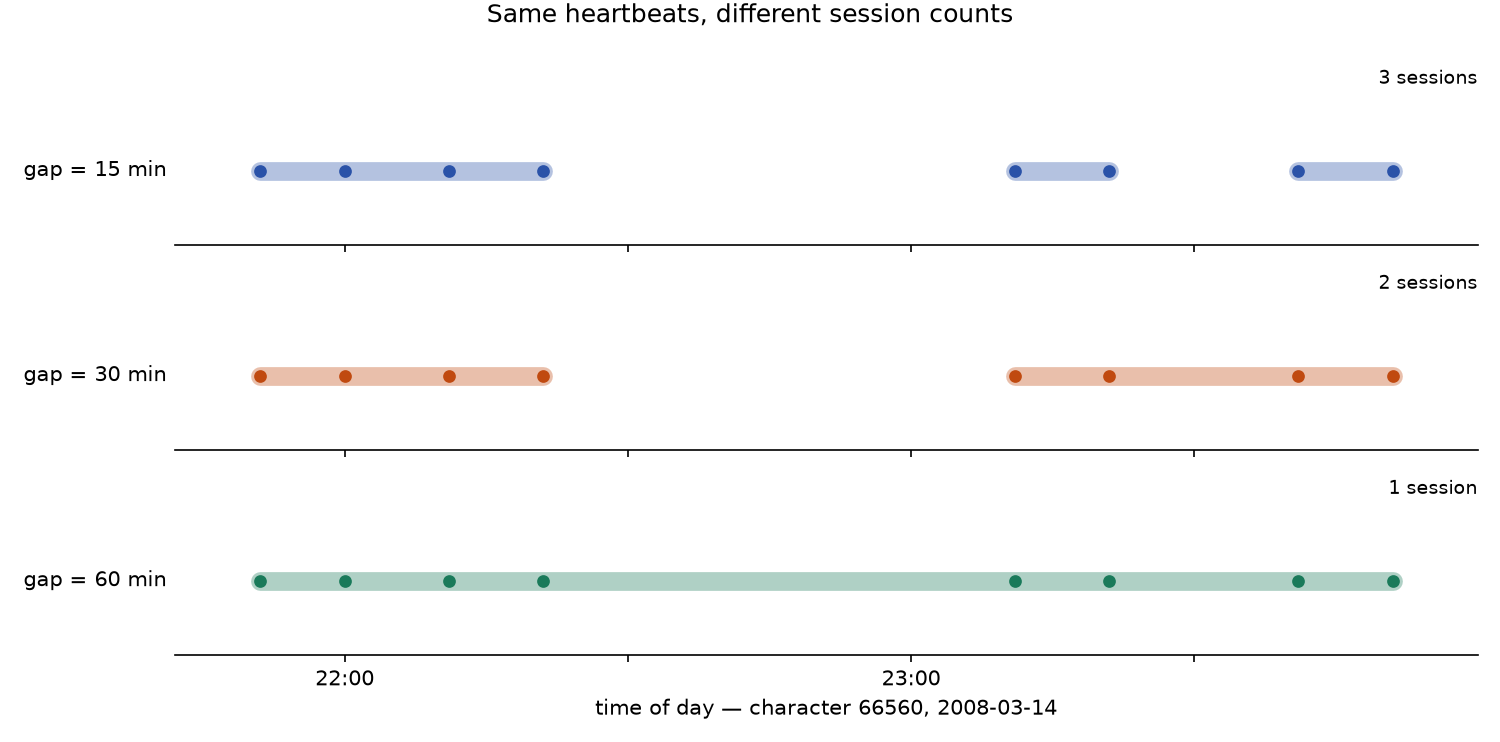
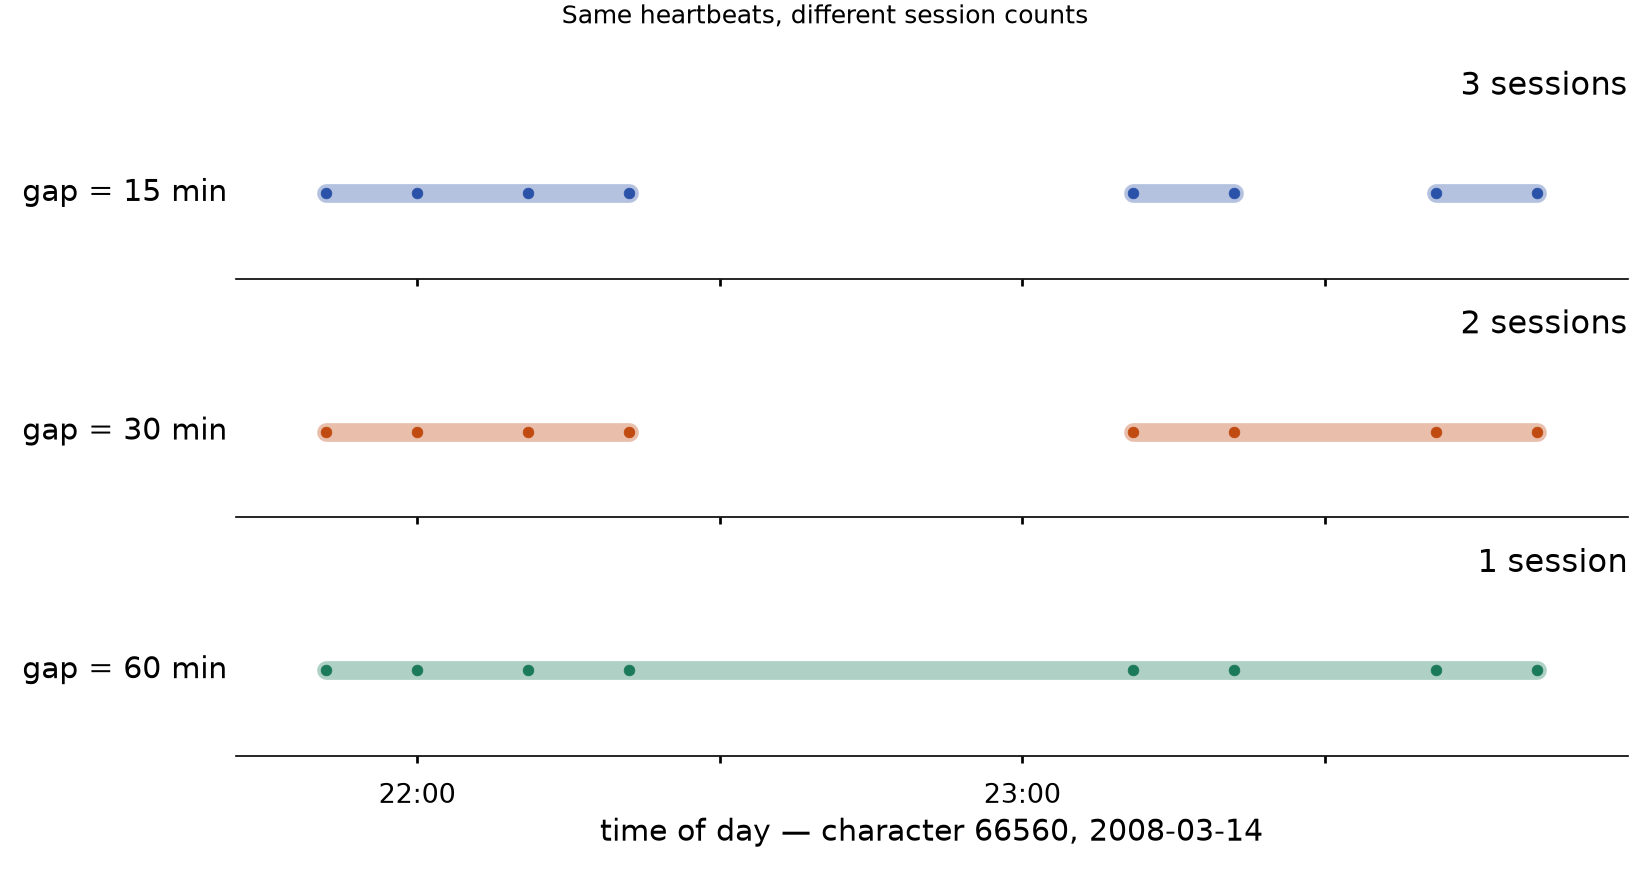
sampling and plots

diff --git a/plotting/plot_sampling.py b/plotting/plot_sampling.py
@@ -1,0 +1,123 @@
+"""
+Why `load` samples characters and not rows.
+
+A 10% sample of the *rows* of the 2008 heartbeat table, for 40 characters drawn
+at random from the 20,472 the sample kept. Grey cells are months in which the
+character genuinely did not play; orange cells are months the character did play
+but the row sample dropped.
+
+Writes images/sampling.png.
+"""
+# %%
+from pathlib import Path
+
+import matplotlib.pyplot as plt
+import numpy as np
+import polars as pl
+from matplotlib.colors import ListedColormap
+
+DATA_PATH = "data/wowah_data_2008.parquet"
+OUTPUT_PATH = Path("images/sampling.png")
+FRACTION = 0.1
+SEED = 42
+N_CHARS = 40
+
+PRESENT = "#2a52a8"
+SPURIOUS = "#c04a10"
+ABSENT = "#e6e6e6"
+
+
+# %%
+def load_beats(data_path=DATA_PATH):
+    df = pl.read_parquet(data_path, columns=["char", "timestamp"])
+    return df.with_columns(pl.col("timestamp").dt.truncate("1mo").alias("month"))
+
+
+def cells(df):
+    return df.select(["char", "month"]).unique()
+
+
+def sample_rows(df, fraction=FRACTION, seed=SEED):
+    return df.sample(fraction=fraction, seed=seed)
+
+
+# %%
+def grid(sample_cells, truth_cells, chars, months):
+    """0 = present, 1 = missing but truly present, 2 = truly missing."""
+    present = set(zip(sample_cells["char"].to_list(), sample_cells["month"].to_list()))
+    truth = set(zip(truth_cells["char"].to_list(), truth_cells["month"].to_list()))
+    out = np.zeros((len(chars), len(months)), dtype=int)
+    for i, char in enumerate(chars):
+        for j, month in enumerate(months):
+            if (char, month) in present:
+                out[i, j] = 0
+            elif (char, month) in truth:
+                out[i, j] = 1
+            else:
+                out[i, j] = 2
+    return out
+
+
+def draw(ax, mask, months, n_kept):
+    ax.imshow(
+        mask,
+        aspect="auto",
+        interpolation="nearest",
+        cmap=ListedColormap([PRESENT, SPURIOUS, ABSENT]),
+        vmin=0,
+        vmax=2,
+    )
+    ax.set_xticks(range(len(months)))
+    ax.set_xticklabels([m.strftime("%b") for m in months], fontsize=9)
+    ax.set_yticks([])
+    ax.set_title(
+        f"{mask.shape[0]} characters, a snippet of the {n_kept:,} the sample kept",
+        fontsize=10,
+        loc="left",
+    )
+    for side in ("top", "right", "left"):
+        ax.spines[side].set_visible(False)
+    ax.tick_params(length=0)
+
+
+# %%
+def plot(beats, output_path=OUTPUT_PATH):
+    truth = cells(beats)
+    row_sample = sample_rows(beats)
+    row_cells = cells(row_sample)
+
+    # A snippet of the characters the row sample kept, so the panel stays
+    # readable: the sample kept far more characters than can be drawn.
+    kept = row_cells["char"].unique().to_list()
+    shared = pl.Series(sorted(kept)).sample(n=N_CHARS, seed=SEED).to_list()
+    months = sorted(truth["month"].unique().to_list())
+
+    mask = grid(row_cells, truth, shared, months)
+
+    fig, ax = plt.subplots(figsize=(9.2, 4.6))
+    draw(ax, mask, months, len(kept))
+
+    handles = [
+        plt.Rectangle((0, 0), 1, 1, color=PRESENT),
+        plt.Rectangle((0, 0), 1, 1, color=SPURIOUS),
+        plt.Rectangle((0, 0), 1, 1, color=ABSENT),
+    ]
+    fig.legend(
+        handles,
+        ["played, kept by the sample", "played, dropped by the sample", "did not play"],
+        loc="lower center",
+        ncol=3,
+        frameon=False,
+        fontsize=9,
+        bbox_to_anchor=(0.5, -0.04),
+    )
+    fig.tight_layout()
+    output_path.parent.mkdir(parents=True, exist_ok=True)
+    fig.savefig(output_path, dpi=160, bbox_inches="tight")
+    print(f"wrote {output_path}")
+    return fig
+
+
+# %%
+if __name__ == "__main__":
+    plot(load_beats())

diff --git a/plotting/plot_session_gap_example.py b/plotting/plot_session_gap_example.py
@@ -14,6 +14,8 @@ import matplotlib.pyplot as plt
 import polars as pl
 from skrub import SessionEncoder
 
+plt.style.use("seaborn-v0_8-talk")
+
 DATA_PATH = "data/wowah_data_2008.parquet"
 OUTPUT_PATH = Path("images/session_gap_example.png")
 
@@ -41,7 +43,7 @@ def plot(night, output_path=OUTPUT_PATH, gaps=GAPS):
     hours = (night["timestamp"].dt.hour() + night["timestamp"].dt.minute() / 60).to_list()
 
     fig, axes = plt.subplots(
-        len(gaps), 1, figsize=(10, 1.35 * len(gaps) + 0.9), sharex=True
+        len(gaps), 1, figsize=(11, 1.5 * len(gaps) + 1.3), sharex=True
     )
     for ax, gap, color in zip(axes, gaps, COLORS):
         ids = session_ids(night, gap)
@@ -63,7 +65,6 @@ def plot(night, output_path=OUTPUT_PATH, gaps=GAPS):
         ax.set_title(
             f"{ids.n_unique()} session{'s' if ids.n_unique() > 1 else ''}",
             loc="right",
-            fontsize=9,
         )
         for side in ("top", "right", "left"):
             ax.spines[side].set_visible(False)

diff --git a/OUTLINE.md b/OUTLINE.md
@@ -9,8 +9,8 @@ exists in the code but is not yet in any part.
 ### 2. Downsampling by character  — *covered in Part 5*
 
 `load` samples a fraction of characters and keeps **all** their rows. The post
-mentions this in one sentence inside a collapsible block but never says why
-row-level sampling would be wrong.
+now has a subsection ("Why the sample is drawn by character") with the figure
+`images/sampling.png`; what follows is the material behind it.
 
 - Why sampling rows breaks the monthly timeline (a character would appear to have
   gaps that are sampling artefacts, not churn).
@@ -18,15 +18,30 @@ row-level sampling would be wrong.
 - The cost/accuracy trade-off: 10% of characters by default, `--fraction 1` for
   everything.
 
+Measured on `data/wowah_data_2008.parquet` (10.8M heartbeats, 37,354 characters,
+98,972 character-months), 10% sample, `seed=42`:
+
+| | rows | characters | character-months | lost |
+|---|---:|---:|---:|---:|
+| full | 10,826,734 | 37,354 | 98,972 | — |
+| by character | 1,115,791 | 3,735 | 9,959 | 0 |
+| by row | 1,082,673 | 20,472 | 59,690 | 24% of the played cells |
+
+- 13.9% of the row-sampled characters get an interior hole, 1.85 months wide on
+  average.
+- Label corruption: 5,519 of 16,701 positives in the row sample are spurious
+  (33%), 0 true positives lost — precision 0.67, recall 1.0 against the true
+  labels. The corruption only invents churners.
+- The parse happens before the sample, so both schemes cost the same to parse and
+  about the same to fit.
+
 Code: `sample_by_user` and `load`, in `src/utils.py` and `main.py`.
 
-::: {.callout-note}
-**Figure placeholder** — `images/TODO-sampling.png`
-
-Two side-by-side panels over the same month: (a) row-level sample, showing
-characters with spurious missing months; (b) character-level sample, showing
-complete timelines for fewer characters. Same number of rows in both.
-:::
+Figure: `images/sampling.png`, drawn by `plotting/plot_sampling.py`
+(`pixi run plot-sampling`). One panel: a 10% row sample over 2008 for 40
+characters drawn at random from the 20,472 the sample kept (a snippet — the
+sample kept far more than can be drawn). Blue = kept, orange = played but
+dropped, grey = did not play.
 
 ### 3. What a "session" is  — *covered in Part 3*
 

diff --git a/readme.md b/readme.md
@@ -40,7 +40,7 @@ Let `M` be the month in which we score a character (and could act on it).
 | `src/utils.py` | `sample_by_user` (sample whole character histories) and `get_session_duration` |
 | `src/parse_to_single_table.py`, `src/convert_to_parquet.py` | Parse the raw WoWAH `.txt` logs to CSV, then to parquet |
 | `location_features.py`, `lagged_features.py`, `main-unpacked.py` | Exploration scripts and an older variant of `main.py` split into more DataOps nodes |
-| `plotting/` | Plots: users per month, monthly stats, polar plots of session start/end times |
+| `plotting/` | Plots: users per month, monthly stats, polar plots of session start/end times, the session-gap example, zone rarity and the row-vs-character sampling comparison |
 | `index.qmd`, `draft.qmd`, `skrub-dataops.qmd` | Website landing page, blog post index and slide deck; rendered output goes to `docs/` and is published to GitHub Pages |
 | `posts/*.qmd` | The blog post, split into six standalone parts (`01-data` … `06-results-and-runtime`); `draft.qmd` is the index that links to them |
 | `sections/_setup.qmd`, `sections/_load_data.qmd` | Shared `#\| include: false` cells (the `show()` helper and the parquet load) included by every part |
@@ -104,11 +104,11 @@ rate of the gradient boosting model.
 
 Other tasks: `pixi run churn` prints the churn table, `pixi run explore` profiles
 the full heartbeat dataset (HTML report and plots in `reports/exploration/`),
-`pixi run plot-user-months`, `plot-stats-by-month` and `plot-session-times`
-redraw the plots, and `pixi run render` (or `render-draft` / `render-slides`)
-renders the documents into `docs/`. `render-draft` renders only the series index
-(`draft.qmd`); to render one part, pass its path:
-`pixi run quarto render posts/03-sessions.qmd`.
+`pixi run plot-user-months`, `plot-stats-by-month`, `plot-session-times`,
+`plot-sampling` and `plot-zone-rarity` redraw the plots, and `pixi run render`
+(or `render-draft` / `render-slides`) renders the documents into `docs/`.
+`render-draft` renders only the series index (`draft.qmd`); to render one part,
+pass its path: `pixi run quarto render posts/03-sessions.qmd`.
 
 ## Website
 
